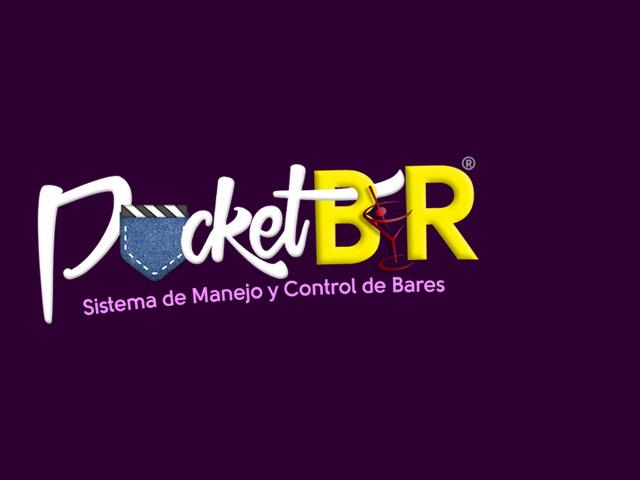
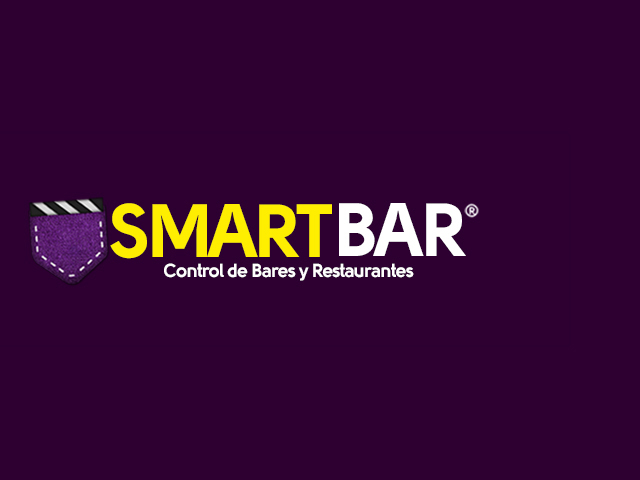
cambios
se hicieron

Changed region(s): [[0.0312, 0.3125, 0.75, 0.6875]]

diff --git a/public/css/bootstrap-social.css b/public/css/bootstrap-social.css
@@ -37,7 +37,7 @@
 .btn-dropbox:active,.btn-dropbox.active,.open>.dropdown-toggle.btn-dropbox{background-image:none}
 .btn-dropbox.disabled:hover,.btn-dropbox[disabled]:hover,fieldset[disabled] .btn-dropbox:hover,.btn-dropbox.disabled:focus,.btn-dropbox[disabled]:focus,fieldset[disabled] .btn-dropbox:focus,.btn-dropbox.disabled.focus,.btn-dropbox[disabled].focus,fieldset[disabled] .btn-dropbox.focus{background-color:#1087dd;border-color:rgba(0,0,0,0.2)}
 .btn-dropbox .badge{color:#1087dd;background-color:#fff}
-.btn-facebook{color:#fff;background-color:#3b5998;border-color:rgba(0,0,0,0.2)}.btn-facebook:focus,.btn-facebook.focus{color:#fff;background-color:#2d4373;border-color:rgba(0,0,0,0.2)}
+.btn-facebook{color:#fff;}.btn-facebook:focus,.btn-facebook.focus{color:#fff;background-color:#2d4373;border-color:rgba(0,0,0,0.2)}
 .btn-facebook:hover{color:#fff;background-color:#2d4373;border-color:rgba(0,0,0,0.2)}
 .btn-facebook:active,.btn-facebook.active,.open>.dropdown-toggle.btn-facebook{color:#fff;background-color:#2d4373;border-color:rgba(0,0,0,0.2)}.btn-facebook:active:hover,.btn-facebook.active:hover,.open>.dropdown-toggle.btn-facebook:hover,.btn-facebook:active:focus,.btn-facebook.active:focus,.open>.dropdown-toggle.btn-facebook:focus,.btn-facebook:active.focus,.btn-facebook.active.focus,.open>.dropdown-toggle.btn-facebook.focus{color:#fff;background-color:#23345a;border-color:rgba(0,0,0,0.2)}
 .btn-facebook:active,.btn-facebook.active,.open>.dropdown-toggle.btn-facebook{background-image:none}
@@ -61,13 +61,13 @@
 .btn-github:active,.btn-github.active,.open>.dropdown-toggle.btn-github{background-image:none}
 .btn-github.disabled:hover,.btn-github[disabled]:hover,fieldset[disabled] .btn-github:hover,.btn-github.disabled:focus,.btn-github[disabled]:focus,fieldset[disabled] .btn-github:focus,.btn-github.disabled.focus,.btn-github[disabled].focus,fieldset[disabled] .btn-github.focus{background-color:#444;border-color:rgba(0,0,0,0.2)}
 .btn-github .badge{color:#444;background-color:#fff}
-.btn-google{color:#fff;background-color:#dd4b39;border-color:rgba(0,0,0,0.2)}.btn-google:focus,.btn-google.focus{color:#fff;background-color:#c23321;border-color:rgba(0,0,0,0.2)}
+.btn-google{color:#fff;}.btn-google:focus,.btn-google.focus{color:#fff;background-color:#c23321;border-color:rgba(0,0,0,0.2)}
 .btn-google:hover{color:#fff;background-color:#c23321;border-color:rgba(0,0,0,0.2)}
 .btn-google:active,.btn-google.active,.open>.dropdown-toggle.btn-google{color:#fff;background-color:#c23321;border-color:rgba(0,0,0,0.2)}.btn-google:active:hover,.btn-google.active:hover,.open>.dropdown-toggle.btn-google:hover,.btn-google:active:focus,.btn-google.active:focus,.open>.dropdown-toggle.btn-google:focus,.btn-google:active.focus,.btn-google.active.focus,.open>.dropdown-toggle.btn-google.focus{color:#fff;background-color:#a32b1c;border-color:rgba(0,0,0,0.2)}
 .btn-google:active,.btn-google.active,.open>.dropdown-toggle.btn-google{background-image:none}
 .btn-google.disabled:hover,.btn-google[disabled]:hover,fieldset[disabled] .btn-google:hover,.btn-google.disabled:focus,.btn-google[disabled]:focus,fieldset[disabled] .btn-google:focus,.btn-google.disabled.focus,.btn-google[disabled].focus,fieldset[disabled] .btn-google.focus{background-color:#dd4b39;border-color:rgba(0,0,0,0.2)}
 .btn-google .badge{color:#dd4b39;background-color:#fff}
-.btn-instagram{color:#fff;background-color:#3f729b;border-color:rgba(0,0,0,0.2)}.btn-instagram:focus,.btn-instagram.focus{color:#fff;background-color:#305777;border-color:rgba(0,0,0,0.2)}
+.btn-instagram{color:#fff;)}.btn-instagram:focus,.btn-instagram.focus{color:#fff;background-color:#305777;border-color:rgba(0,0,0,0.2)}
 .btn-instagram:hover{color:#fff;background-color:#305777;border-color:rgba(0,0,0,0.2)}
 .btn-instagram:active,.btn-instagram.active,.open>.dropdown-toggle.btn-instagram{color:#fff;background-color:#305777;border-color:rgba(0,0,0,0.2)}.btn-instagram:active:hover,.btn-instagram.active:hover,.open>.dropdown-toggle.btn-instagram:hover,.btn-instagram:active:focus,.btn-instagram.active:focus,.open>.dropdown-toggle.btn-instagram:focus,.btn-instagram:active.focus,.btn-instagram.active.focus,.open>.dropdown-toggle.btn-instagram.focus{color:#fff;background-color:#26455d;border-color:rgba(0,0,0,0.2)}
 .btn-instagram:active,.btn-instagram.active,.open>.dropdown-toggle.btn-instagram{background-image:none}

diff --git a/public/css/style1.css b/public/css/style1.css
@@ -5,7 +5,7 @@ License: Creative Commons Attribution 3.0 Unported
 License URL: http://creativecommons.org/licenses/by/3.0/
 */
 /* reset */
-html,body,div,span,applet,object,iframe,h1,h2,h3,h4,h5,h6,p,blockquote,pre,a,abbr,acronym,address,big,cite,code,del,dfn,em,img,ins,kbd,q,s,samp,small,strike,strong,sub,sup,tt,var,b,u,i,dl,dt,dd,ol,nav ul,nav li,fieldset,form,label,legend,table,caption,tbody,tfoot,thead,tr,th,td,article,aside,canvas,details,embed,figure,figcaption,footer,header,hgroup,menu,nav,output,ruby,section,summary,time,mark,audio,video{margin:0;padding:0;border:0;font-size:100%;font:inherit;vertical-align:baseline;}
+html,body,div,span,applet,object,iframe,h1,h2,h3,h4,h5,h6,p,blockquote,pre,a,abbr,acronym,address,big,cite,code,del,dfn,em,img,ins,kbd,q,s,samp,small,strike,strong,sub,sup,tt,var,b,u,i,dl,dt,dd,ol,nav ul,nav li,fieldset,form,label,legend,table,caption,tbody,tfoot,thead,tr,th,td,article,aside,canvas,details,embed,figure,figcaption,footer,header,hgroup,menu,nav,output,ruby,section,summary,time,mark,audio,video{margin:0;padding:0;border:0;font-size:100%;vertical-align:baseline;}
 article, aside, details, figcaption, figure,footer, header, hgroup, menu, nav, section {display: block;}
 ol,ul{list-style:none;margin:0;padding:0;}
 blockquote,q{quotes:none;}
@@ -49,7 +49,7 @@ img{max-width:100%;}
 	z-index:9;
 	width: 100%;
 	clear: both;
-	background:#232d3b;
+	background:#2d0031;
  }
   .logo{
 	float:left;
@@ -270,7 +270,7 @@ input:focus {
 	text-align: center;
 }
 .wmuSliderWrapper article p{
-	font-size:3em;
+	font-size:2em;
 	font-weight:200;
 	padding:15px 13%;
 }
@@ -296,21 +296,21 @@ input:focus {
 }
 .wmuSliderPrev, .wmuSliderNext {
 	position: absolute;
-	width: 70px;
+	width: 40px;
 	height: 85px;
 	text-indent: -9999px;
 	background: url(../images/sprites.png) no-repeat;
-	top: 50%;
+	top: 65%;
 	margin-top: -40px;
 	cursor:pointer;
 }
 .wmuSliderPrev {
-	background-position:-275px -170px;
-	left: 20px;
+	background-position:-420px -170px;
+	left: 100px;
 }
 .wmuSliderNext {
-	background-position:-352px -170px;
-	right: 20px;
+	background-position:-460px -170px;
+	right: 100px;
 }
 .dropdown-buttons{
   margin:2em 0 1em 0;
@@ -542,8 +542,8 @@ input:focus {
 } 
 .comment_icons li a{
    display:block;
-   width:35px;
-   height:35px;
+   width:15px;
+   height:15px;
    padding:18px;
     -webkit-transition: all 0.3s ease;
 		-moz-transition: all 0.3s ease;
@@ -551,20 +551,20 @@ input:focus {
 		transition: all 0.3s ease;
 }
 .comment_icons li a.comments{
-	background:#7235ac url(../images/sprites.png) no-repeat -125px 13px;
+	background:#7235ac url(../images/sprites.png) no-repeat -138px 0px;
 	border-radius:3px 3px 0px 0px;
 }
 .comment_icons li a.comments:hover{
 	background-color:#8741ca;#8741ca
 }
 .comment_icons li a.email{
-	background:#ae81d2 url(../images/sprites.png) no-repeat -178px 11px;
+	background:#ae81d2 url(../images/sprites.png) no-repeat -188px 0px;
 }
 .comment_icons li a.email:hover{
 	background-color:#bc8ee0;#bc8ee0
 }
 .comment_icons li a.like{
-	background:#905dba url(../images/sprites.png) no-repeat -231px 10px;
+	background:#905dba url(../images/sprites.png) no-repeat -241px 0px;
 	border-radius:0px 0px 3px 3px;
 }
 .comment_icons li a.like:hover{
@@ -947,7 +947,7 @@ input:focus {
 }
 .copy-right p{
 	color:#727E8D;
-	font-size: 0.85em;
+	font-size: 0.65em;
 	line-height:1.8em;
 }
 .copy-right p span{
@@ -1309,10 +1309,10 @@ input:focus {
 }
 .w3ls-welcome-right-info h2,.w3-agileits-heading h3{
     color: #000000;
-    font-size: 2em;
+    font-size: 1.8em;
     margin: 0;
     font-weight: 100;
-    font-family: 'Pacifico', cursive;
+    font-family:"Arial Black", Gadget, sans-serif, cursive;
     letter-spacing: 2px;
 }
 .w3ls-welcome-right-info h2 span,.w3-agileits-heading h3 span{
@@ -1323,6 +1323,8 @@ input:focus {
     font-size: .9em;
     line-height: 1.8em;
     margin: 2em 0 0 0;
+	text-align:justify;
+	letter-spacing: -0.1px;
 }
 .w3ls-welcome-right-info p span{
 	display:block;

diff --git a/public/js/jquery.wmuSlider.js b/public/js/jquery.wmuSlider.js
@@ -17,7 +17,7 @@
             animation: 'fade',
             animationDuration: 600,
             slideshow: true,
-            slideshowSpeed: 7000,
+            slideshowSpeed: 4500,
             slideToStart: 0,
             navigationControl: true,
             paginationControl: true,

diff --git a/public/css/style.css b/public/css/style.css
@@ -380,6 +380,7 @@ li.gog.w3ls {
 }
 
 .footer p {
+	 font-size: 12px;
     color: #CCC;
     line-height: 25px;
 }

diff --git a/resources/views/Home/Home.blade.php b/resources/views/Home/Home.blade.php
@@ -5,7 +5,7 @@
 <link rel="shortcut icon" href="images/icon.png">
 <meta name="description" content="">
 <meta name="viewport" content="width=device-width, user-scalable=no, initial-scale=1.0, maximum-scale=1.0, minimum-scale=1.0"/>
-<title>PocketByR</title>
+<title>PocketSmartBar</title>
 
 <meta name="viewport" content="width=device-width, initial-scale=1, maximum-scale=1">
 
@@ -89,9 +89,9 @@
             	   <div class="banner_desc">
             	      <div class="wmuSlider example1">
 							<div class="wmuSliderWrapper">
-							<article><p>Ten el control de tu establecimiento sin salir de casa...</p> <img src="images/clouds.png"  alt="" /> </article>
-							<article><p>Registrate y Conoce la plataforma que hace las cosas mas faciles para ti!</p> <img src="images/system.png"  alt="" /> </article>
-							<article><p>La mejor forma de mejorar, aumentar y llevar control de tus ingresos</p> <img src="images/slider-img3.png"  alt="" /> </article>
+                <article><p>Ten el control de tu establecimiento desde cualquier lugar.</p> <img src="images/clouds.png"  alt="" /> </article>
+  							<article><p>Conoce la plataforma que hace las cosas mas faciles para ti.</p> <img src="images/system.png"  alt="" /> </article>
+  							<article><p>Manten el control de tu personal, optimizando tus ingresos.</p> <img src="images/slider-img3.png"  alt="" /> </article>
 							</div>
                        </div>
             	      <script src="js/jquery.wmuSlider.js"></script>

diff --git a/app/Http/routes.php b/app/Http/routes.php
@@ -14,6 +14,8 @@
 Route::get('/', 'HomeController@home');
 Route::get('/home', 'HomeController@home');
 
+Route::get('auth/register', 'Auth\AuthController@getRegister');
+Route::post('auth/register', 'Auth\AuthController@postRegister');
 
 Route::get('auth/confirm/email/{email}/confirm_token/{confirm_token}', 'Auth\AuthController@confirmRegister');
 
@@ -22,8 +24,7 @@ Route::get('auth/login', 'Auth\AuthController@getLogin');
 Route::post('auth/login', 'Auth\AuthController@postLogin');
 Route::get('auth/logout', 'Auth\AuthController@getLogout');
 
-Route::get('auth/register', 'Auth\AuthController@getRegister');
-Route::post('auth/register', 'Auth\AuthController@postRegister');
+
 
 Route::get('auth/profile', 'Auth\AuthController@profile');
 Route::get('auth/editProfile' , 'Auth\AuthController@editProfile');

diff --git a/resources/views/Auth/register.blade.php b/resources/views/Auth/register.blade.php
@@ -86,7 +86,7 @@
 					<a class="hiddenanchor w3layouts agileits" id="toregister"></a>
 					<div id="wrapper">
 						<div id="login" class="animate w3layouts agileits form">
-							<h2 class="w3layouts agileits">Iniciar Seción</h2>
+							<h2 class="w3layouts agileits">Iniciar Sesión</h2>
 							<form  action="#" autocomplete="on" method="post">
 								<label>E-mail</label>
 								<input type="text" Name="Email o SubName" required="">
@@ -154,7 +154,7 @@
 									</div>
 								</form>
 								<p class="change_link w3layouts agileits">
-									¿Ya eres usuario? <a href="#tologin" class="to_register">Iniciar Secion</a>
+									¿Ya eres usuario? <a href="#tologin" class="to_register">Iniciar Sesión</a>
 								</p>
 								<div class="clear"></div>
 							</form>
